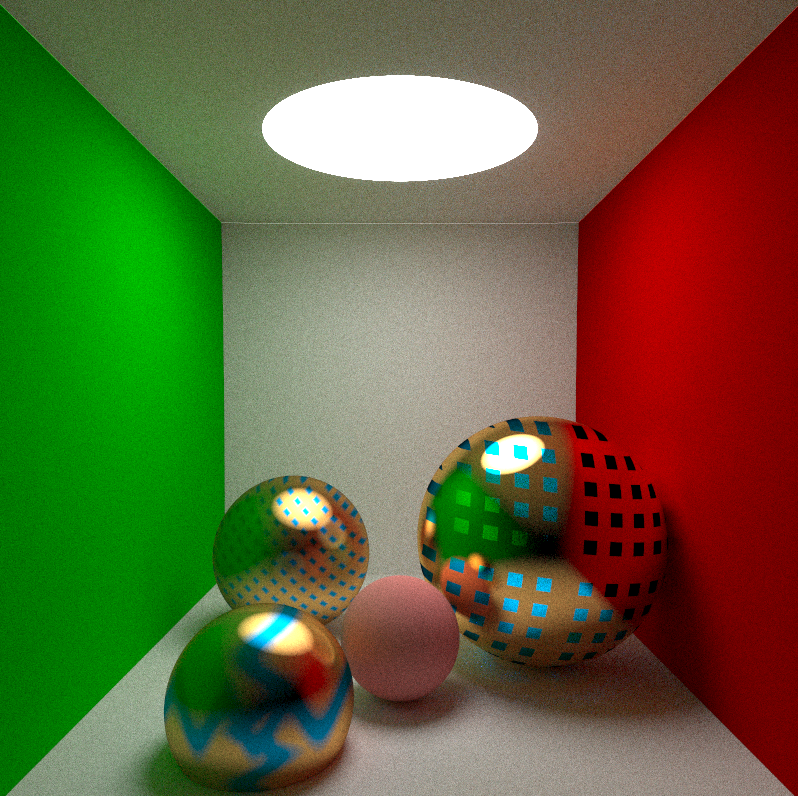
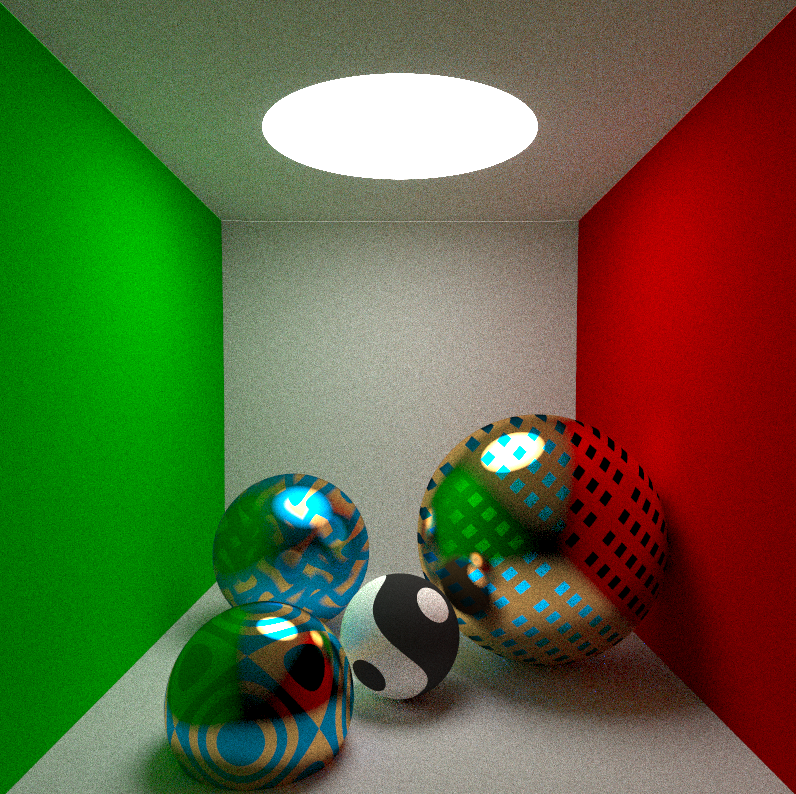
demo_tachi

Changed region(s): [[0.0, 0.0, 1.0, 1.0]]

diff --git a/RayTracing_PatternBall.py b/RayTracing_PatternBall.py
@@ -87,12 +87,12 @@ def ray_color(ray):
                     brightness *= color
                 # Pattern
                 elif material == 5:
-                    v1 = (9*camera.cam_horizontal[None] - camera.cam_vertical[None])/10
-                    v2 = (camera.cam_horizontal[None] + 9*camera.cam_vertical[None])/10
+                    v1 = (camera.cam_horizontal[None] + camera.cam_vertical[None])/2
+                    v2 = (camera.cam_horizontal[None] - camera.cam_vertical[None])/2
                     cos_theta = min(-scattered_direction.normalized().dot(hit_point_normal), 1.0)
                     if (
-                        int(hit_point_normal.dot(v1)*10)%2 == 1
-                        and int(hit_point_normal.dot(v2)*10)%2 == 1
+                        int(hit_point_normal.dot(v1)*13)%2 == 1
+                        and int(hit_point_normal.dot(v2)*20)%2 == 1
                     ):
                         brightness *= color*5*cos_theta*cos_theta
                     else:
@@ -101,28 +101,25 @@ def ray_color(ray):
                                             + 0.1 * random_unit_vector())
                     scattered_origin = hit_point
                 elif material == 6:
-                    v2 = (camera.cam_horizontal[None] - camera.cam_vertical[None])/2
-                    v1 = (camera.cam_horizontal[None] + camera.cam_vertical[None])/2
-                    th = ti.random()*0.8
+                    v1 = ti.pow((hit_point_normal), 2)
                     if (
-                        ti.sin(hit_point_normal.dot(v1)*50) > 0+th
-                        and ti.sin(hit_point_normal.dot(v2)*50)> -0.5+th
+                        v1.dot(v1) % 0.2 >0.1
                     ):
-                        brightness *= color*0.9
+                        brightness *= color
                     else:
-                        brightness *= (1-color)*0.8
+                        brightness *= (1-color)
                     scattered_direction = (reflect(scattered_direction.normalized(), hit_point_normal) 
-                                            + 0.4 * random_unit_vector())
+                                            + 0.1 * random_unit_vector())
                     scattered_origin = hit_point
                 elif material == 7:
                     v1 = camera.cam_vertical[None]
                     v2 = camera.cam_horizontal[None]
                     v3 = (camera.cam_horizontal[None] + camera.cam_vertical[None])/2
-                    th = ti.random()*0.2
+                    th = ti.random()*0.1
                     if (
-                         th+0.3 > hit_point_normal.dot(v1) + ti.sin(hit_point_normal.dot(v2)*PI*3)*0.2 >th-0.1
+                         th+0.2 > (hit_point_normal.dot(v1) + ti.sin(hit_point_normal.dot(v2)*PI*3)*0.2)%0.5 >th-0.1
                          or
-                         th+0.3 > hit_point_normal.dot(v2) + ti.sin(hit_point_normal.dot(v1)*PI*3)*0.2 >th-0.1
+                         th+0.2 > (hit_point_normal.dot(v2) + ti.sin(hit_point_normal.dot(v1)*PI*3)*0.2)%0.5 >th-0.1
                     ):
                         brightness *= color
                     else:
@@ -130,7 +127,22 @@ def ray_color(ray):
                     scattered_direction = (reflect(scattered_direction.normalized(), hit_point_normal) 
                                             + 0.4 * random_unit_vector())
                     scattered_origin = hit_point
-                
+                elif material == 8:
+                    v1 = camera.cam_vertical[None]
+                    v2 = camera.cam_horizontal[None]
+                    v3 = v1.cross(v2).normalized()
+                    v4 = ( v1*1.2 + v2 - v3).normalized()
+                    v5 = (-v1 - v2*1.2 - v3*2).normalized()
+                    if (
+                         hit_point_normal.dot(v2) + ti.sin((hit_point_normal.dot(v1)-0.1)*PI*0.8)*0.5 >0
+                         and hit_point_normal.dot(v4)<0.95
+                         or  hit_point_normal.dot(v5)>0.95
+                    ):
+                        brightness *= color*0.5
+                    else:
+                        brightness *= (1-color)*1.5
+                    scattered_direction = hit_point_normal + random_unit_vector()
+                    scattered_origin = hit_point
                 brightness /= p_RR
     return color_buffer
 
@@ -156,13 +168,13 @@ if __name__ == "__main__":
     scene.add(Sphere(center=ti.Vector([101.5, 0, -1]), radius=100.0, material=1, color=ti.Vector([0.0, 0.6, 0.0])))
 
     # Diffuse ball
-    scene.add(Sphere(center=ti.Vector([0, -0.2, -1.5]), radius=0.3, material=1, color=ti.Vector([0.8, 0.3, 0.3])))
+    scene.add(Sphere(center=ti.Vector([0, -0.2, -1.5]), radius=0.3, material=8, color=ti.Vector([0.1, 0.1, 0.1])))
     # Metal ball
     scene.add(Sphere(center=ti.Vector([-0.8, 0.2, -1]), radius=0.7, material=5, color=ti.Vector([0.0, 0.4, 0.8])))
     # Glass ball
-    scene.add(Sphere(center=ti.Vector([0.7, 0, -0.5]), radius=0.5, material=6, color=ti.Vector([0.0, 0.4, 0.8])))
+    scene.add(Sphere(center=ti.Vector([0.7, 0, -0.5]), radius=0.5, material=7, color=ti.Vector([0.0, 0.4, 0.8])))
     # Metal ball-2
-    scene.add(Sphere(center=ti.Vector([0.6, -0.3, -2.0]), radius=0.4, material=7, color=ti.Vector([0.0, 0.4, 0.8])))
+    scene.add(Sphere(center=ti.Vector([0.6, -0.3, -2.0]), radius=0.4, material=6, color=ti.Vector([0.0, 0.4, 0.8])))
     # Pattern ball
     # scene.add(Sphere(center=ti.Vector([0.4, 1.5, -1.2]), radius=0.6, material=5, color=ti.Vector([0.0, 0.4, 0.8])))
     # scene.add(Sphere(center=ti.Vector([-0.4, 1.6, -1.3]), radius=0.5, material=6, color=ti.Vector([0.0, 0.4, 0.8])))
